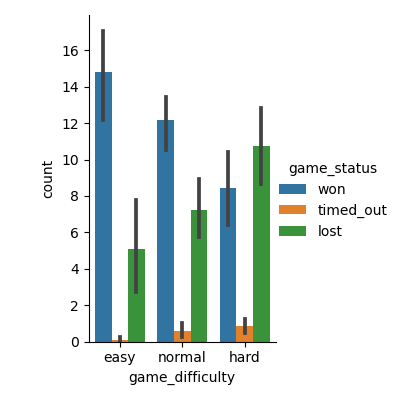
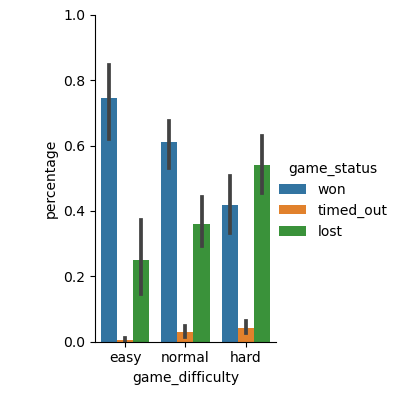
performance plots with percentage and without distinction between difficulty

Changed region(s): [[0.09, 0.03, 0.63, 0.99], [0.63, 0.27, 0.69, 0.51], [0.57, 0.87, 0.66, 0.93]]

diff --git a/analysis/plotting/performance/performances.py b/analysis/plotting/performance/performances.py
@@ -25,16 +25,27 @@ def plot_performance_per_difficulty(df=None):
 
     counts = all_combinations.merge(counts, on=['subject_id', 'game_difficulty', 'game_status'], how='left').fillna(0)
 
-    print(counts)
+    # normalized_counts
+    games_per_difficulty = 20
+    counts['percentage'] = counts['count'].div(games_per_difficulty)
+
     # plot number of game outcomes
-    g = sns.catplot(x="game_difficulty", hue="game_status", col="subject_id", y='count', col_wrap=4, kind='bar', data=counts, height=4,
+    g = sns.catplot(x="game_difficulty", hue="game_status", col="subject_id", y='percentage', col_wrap=4, kind='bar', data=counts, height=4,
                     aspect=.7)
+    g.set(ylim=(0.0, 1.0))
+    plt.savefig('./imgs/performance/game_endings_per_subject_per_difficulty.png')
+    plt.show()
+
+    g = sns.catplot(x="game_status", col="subject_id", y='percentage', col_wrap=4, kind='bar', data=counts, height=4,
+                    aspect=.7)
+    g.set(ylim=(0.0, 1.0))
     plt.savefig('./imgs/performance/game_endings_per_subject.png')
     plt.show()
 
     # plot number of game outcomes per difficulty
-    g = sns.catplot(x="game_difficulty", hue="game_status", y='count', kind='bar', data=counts, height=4,
+    g = sns.catplot(x="game_difficulty", hue="game_status", y='percentage', kind='bar', data=counts, height=4,
                     aspect=.7)
+    g.set(ylim=(0.0, 1.0))
     plt.savefig('./imgs/performance/game_endings.png')
     plt.show()
 
@@ -49,4 +60,5 @@ def plot_performance_per_difficulty(df=None):
     plt.savefig('./imgs/performance/game_times.png')
     plt.show()
 
-# plot_performance_per_difficulty()
+
+plot_performance_per_difficulty()
